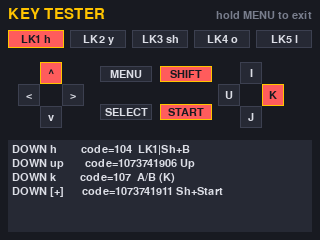
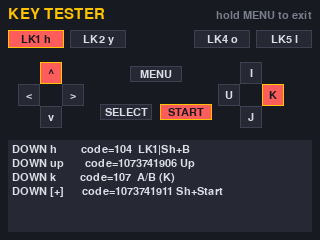
KeyTester: drop the SHIFT and centre Lightkey widgets
Neither ever sends a key, so they could never light up. Document the
main -> master flow in the README.

Claude-Session: https://claude.ai/code/session_0144MYi2aJC4DMFw7TR4gpLC

Changed region(s): [[0.3125, 0.2625, 0.6875, 0.35], [0.4062, 0.1167, 0.5938, 0.2042]]

diff --git a/Tools/KeyTester/src/main.py b/Tools/KeyTester/src/main.py
@@ -58,10 +58,10 @@ KNOWN = {
 
 # On-screen button widgets: name -> (rect, keys that light it)
 BUTTONS = [
-    # Lightkey bar (back side). LK3 is SHIFT: it never lights here.
+    # Lightkey bar (back side). The centre key (LK3) is a hardware SHIFT
+    # that sends nothing, so its slot is left empty.
     ("LK1 h", (8, 30, 56, 18), [pygame.K_h]),
     ("LK2 y", (70, 30, 56, 18), [pygame.K_y]),
-    ("LK3 sh", (132, 30, 56, 18), []),
     ("LK4 o", (194, 30, 56, 18), [pygame.K_o]),
     ("LK5 l", (256, 30, 56, 18), [pygame.K_l]),
     # D-pad
@@ -74,12 +74,10 @@ BUTTONS = [
     ("K", (262, 84, 22, 22), [pygame.K_k]),
     ("U", (218, 84, 22, 22), [pygame.K_u]),
     ("J", (240, 106, 22, 22), [pygame.K_j]),
-    # Middle row (SHIFT is a hardware modifier: it sends no key itself)
-    # SHIFT can only be seen through the combos that send a unique key
-    # (Sh+Start, Sh+Select, Sh+Menu): those light SHIFT and the button.
-    ("MENU", (100, 66, 52, 16), [pygame.K_ESCAPE, pygame.K_BACKSPACE]),
-    ("SHIFT", (160, 66, 52, 16),
-     [pygame.K_KP_PLUS, pygame.K_KP_MINUS, pygame.K_BACKSPACE]),
+    # Middle row. SHIFT is not shown: it is a hardware modifier that never
+    # sends a key. Sh+Menu/Select/Start send unique keys, which light the
+    # button they were combined with.
+    ("MENU", (130, 66, 52, 16), [pygame.K_ESCAPE, pygame.K_BACKSPACE]),
     ("SELECT", (100, 104, 52, 16), [pygame.K_SPACE, pygame.K_KP_MINUS]),
     ("START", (160, 104, 52, 16), [pygame.K_RETURN, pygame.K_KP_PLUS]),
 ]

diff --git a/README.md b/README.md
@@ -14,8 +14,9 @@ tool installabili direttamente dal menu **Warehouse** della console. La struttur
    download è finito, premi **A** di nuovo per avviarlo.
 
 > ⚠ Il launcher legge **sempre il branch `master`**: l'URL `master/index.json`
-> è scritto nel codice del launcher. Per questo il branch principale di questa
-> repo deve chiamarsi `master`.
+> è scritto nel codice del launcher. Le modifiche entrano in `main` tramite
+> PR, e subito dopo `main` viene unito in `master`, che è quello che il
+> GameShell scarica.
 
 ## Contenuto
 
